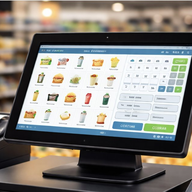
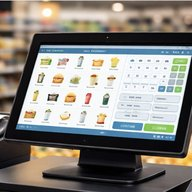
C:\Users\serJo\Downloads\pos-firebase\pos-firebase

diff --git a/pos-admin.html b/pos-admin.html
@@ -638,7 +638,71 @@ function shareWhatsApp(){
   const url="https://wa.me/?text="+encodeURIComponent(txt);
   window.open(url,"_blank");
 }
-function printTicket(){document.body.classList.add("printing");var cleaned=false;function done(){if(cleaned)return;cleaned=true;document.body.classList.remove("printing");closeTicket()}window.addEventListener("afterprint",function af(){done();window.removeEventListener("afterprint",af)});setTimeout(function(){window.print()},200);setTimeout(done,10000)}
+function buildTicketText(){
+  const s=currentTicketSale;if(!s)return"";
+  const sn=biz.name||"Punto de Venta";
+  let txt="\n";
+  txt+="================================\n";
+  txt+="   "+sn+"\n";
+  if(biz.address)txt+="   "+biz.address+"\n";
+  if(biz.phone)txt+="   Tel: "+biz.phone+"\n";
+  txt+="================================\n";
+  if(s.__orderPrint){
+    txt+="     NOTA DE PEDIDO\n";
+    txt+="================================\n";
+    txt+="Folio: "+s.folio+"\n";
+    txt+="Cliente: "+s.client+"\n";
+    if(s.phone)txt+="Tel: "+s.phone+"\n";
+    const deliv=s.deliveryDate?new Date(s.deliveryDate+"T"+(s.deliveryTime||"12:00")).toLocaleString("es-MX",{weekday:"short",day:"numeric",month:"short",hour:"2-digit",minute:"2-digit"}):"—";
+    txt+="Entrega: "+deliv+"\n";
+    txt+="--------------------------------\n";
+    (s.items||[]).forEach(i=>{
+      const cantTxt=i.unit==="pza"&&i.pzKg?i.qty+"pz ("+i.kgAprox+"kg)":i.qty+" "+i.unit;
+      txt+=i.name.substring(0,18).padEnd(18)+cantTxt.toString().padStart(12)+"\n";
+      txt+="  Importe: "+fmt(i.total)+"\n";
+    });
+    const totKg=(s.items||[]).reduce((a,i)=>a+(i.kgAprox||i.qty),0);
+    txt+="================================\n";
+    txt+="Kg aprox:".padEnd(20)+totKg.toFixed(2)+" kg\n";
+    txt+="Total:".padEnd(20)+fmt(s.total)+"\n";
+    txt+="Anticipo:".padEnd(20)+fmt(s.advance||0)+"\n";
+    txt+="RESTA:".padEnd(20)+fmt(s.rest||0)+"\n";
+    if(s.notes)txt+="--------------------------------\nNota: "+s.notes+"\n";
+  }else{
+    txt+="Folio: "+s.folio+"\n";
+    txt+=fmtDate(s.date)+"\n";
+    txt+="--------------------------------\n";
+    txt+="Producto          Cant      Imp.\n";
+    txt+="--------------------------------\n";
+    s.items.forEach(i=>{
+      if(s.tipo==="varios"){txt+=i.name.substring(0,28)+"\n"}
+      else{
+        txt+=i.name.substring(0,16).padEnd(16)+(i.qty+" "+i.unit).toString().padStart(6)+" "+fmt(i.total).padStart(9)+"\n";
+      }
+    });
+    txt+="================================\n";
+    txt+="TOTAL:".padEnd(22)+fmt(s.total).padStart(9)+"\n";
+  }
+  txt+="================================\n";
+  txt+="        ¡Gracias!\n\n\n";
+  return txt;
+}
+function printTicket(){
+  // 🔵 Si está dentro de la app Android, imprime por Bluetooth
+  if(window.Android&&typeof window.Android.print==="function"){
+    const txt=buildTicketText();
+    window.Android.print(txt);
+    toast("🖨 Enviando a impresora...");
+    return;
+  }
+  // 🖥 Impresión normal por navegador
+  document.body.classList.add("printing");
+  var cleaned=false;
+  function done(){if(cleaned)return;cleaned=true;document.body.classList.remove("printing");closeTicket()}
+  window.addEventListener("afterprint",function af(){done();window.removeEventListener("afterprint",af)});
+  setTimeout(function(){window.print()},200);
+  setTimeout(done,10000);
+}
 
 // HISTORY
 function renderHistory(){const s=$("history-search").value.toLowerCase(),f=salesHistory.filter(x=>x.folio.toLowerCase().includes(s)||x.items.some(i=>i.name.toLowerCase().includes(s)));$("history-count").textContent=salesHistory.length+" ventas";if(!f.length){$("history-list").innerHTML=`<div style="text-align:center;padding:70px;color:var(--text-faint)"><div style="font-size:50px;opacity:.25">📋</div><div style="font-size:14px;margin-top:10px">${!salesHistory.length?"Sin ventas aún":"Sin resultados"}</div></div>`;return}$("history-list").innerHTML=f.map((s,i)=>`<div class="sale-card"><div style="flex:1;cursor:pointer" onclick="showTicket(salesHistory[${salesHistory.indexOf(s)}])"><div class="sale-folio">${s.folio} ${s.source==='terminal'?'📱':''}</div><div class="sale-date">${fmtDate(s.date)}</div><div class="sale-products">${s.items.map(i=>i.name).join(" · ")}</div></div><div style="display:flex;flex-direction:column;align-items:flex-end;gap:6px"><div class="sale-total">${fmt(s.total)}</div><button onclick="event.stopPropagation();confirmDeleteSale('${s.id}','${s.folio}')" style="background:none;border:1px solid var(--danger);color:var(--danger);padding:4px 10px;border-radius:6px;font-size:11px;cursor:pointer;font-family:var(--font-display)">🗑 Borrar</button></div></div>`).join("")}

diff --git a/index.html b/index.html
@@ -646,7 +646,60 @@ function shareWhatsApp(){
   window.open(url,"_blank");
 }
 
+function buildTicketText(){
+  const s=currentTicketSale;if(!s)return"";
+  const sn=biz.name||"Punto de Venta";
+  let txt="\n";
+  txt+="================================\n";
+  txt+="   "+sn+"\n";
+  if(biz.address)txt+="   "+biz.address+"\n";
+  if(biz.phone)txt+="   Tel: "+biz.phone+"\n";
+  txt+="================================\n";
+  if(s.__orderPrint){
+    txt+="     NOTA DE PEDIDO\n";
+    txt+="================================\n";
+    txt+="Folio: "+s.folio+"\n";
+    txt+="Cliente: "+s.client+"\n";
+    if(s.phone)txt+="Tel: "+s.phone+"\n";
+    const deliv=s.deliveryDate?new Date(s.deliveryDate+"T"+(s.deliveryTime||"12:00")).toLocaleString("es-MX",{weekday:"short",day:"numeric",month:"short",hour:"2-digit",minute:"2-digit"}):"—";
+    txt+="Entrega: "+deliv+"\n";
+    txt+="--------------------------------\n";
+    (s.items||[]).forEach(i=>{
+      const cantTxt=i.unit==="pza"&&i.pzKg?i.qty+"pz ("+i.kgAprox+"kg)":i.qty+" "+i.unit;
+      txt+=i.name.substring(0,18).padEnd(18)+cantTxt.toString().padStart(12)+"\n";
+      txt+="  Importe: "+fmt(i.total)+"\n";
+    });
+    const totKg=(s.items||[]).reduce((a,i)=>a+(i.kgAprox||i.qty),0);
+    txt+="================================\n";
+    txt+="Kg aprox:".padEnd(20)+totKg.toFixed(2)+" kg\n";
+    txt+="Total:".padEnd(20)+fmt(s.total)+"\n";
+    txt+="Anticipo:".padEnd(20)+fmt(s.advance||0)+"\n";
+    txt+="RESTA:".padEnd(20)+fmt(s.rest||0)+"\n";
+    if(s.notes)txt+="--------------------------------\nNota: "+s.notes+"\n";
+  }else{
+    txt+="Folio: "+s.folio+"\n";
+    txt+=fmtDate(s.date)+"\n";
+    txt+="--------------------------------\n";
+    txt+="Producto          Cant      Imp.\n";
+    txt+="--------------------------------\n";
+    s.items.forEach(i=>{
+      if(s.tipo==="varios"){txt+=i.name.substring(0,28)+"\n"}
+      else{txt+=i.name.substring(0,16).padEnd(16)+(i.qty+" "+i.unit).toString().padStart(6)+" "+fmt(i.total).padStart(9)+"\n"}
+    });
+    txt+="================================\n";
+    txt+="TOTAL:".padEnd(22)+fmt(s.total).padStart(9)+"\n";
+  }
+  txt+="================================\n";
+  txt+="        ¡Gracias!\n\n\n";
+  return txt;
+}
 function printTicket(){
+  if(window.Android&&typeof window.Android.print==="function"){
+    const txt=buildTicketText();
+    window.Android.print(txt);
+    toast("🖨 Enviando a impresora...");
+    return;
+  }
   document.body.classList.add("printing");
   var cleaned=false;
   function done(){
